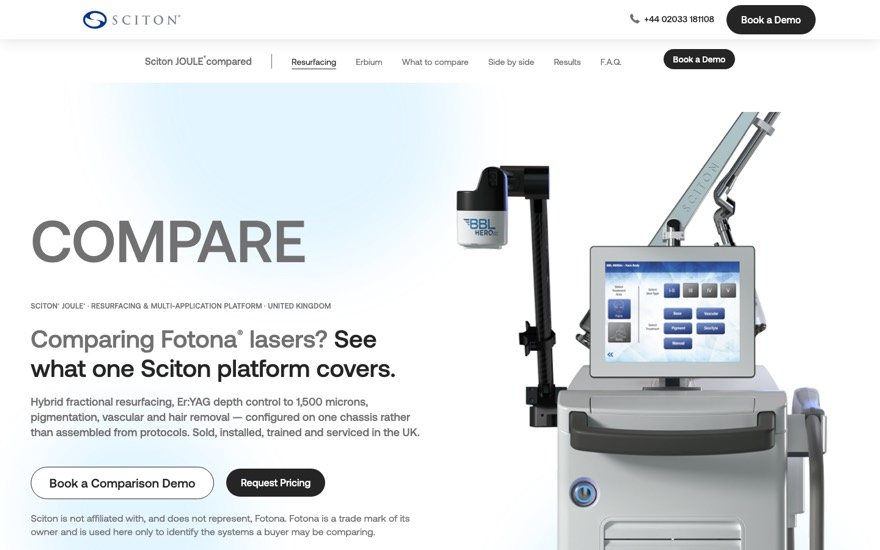
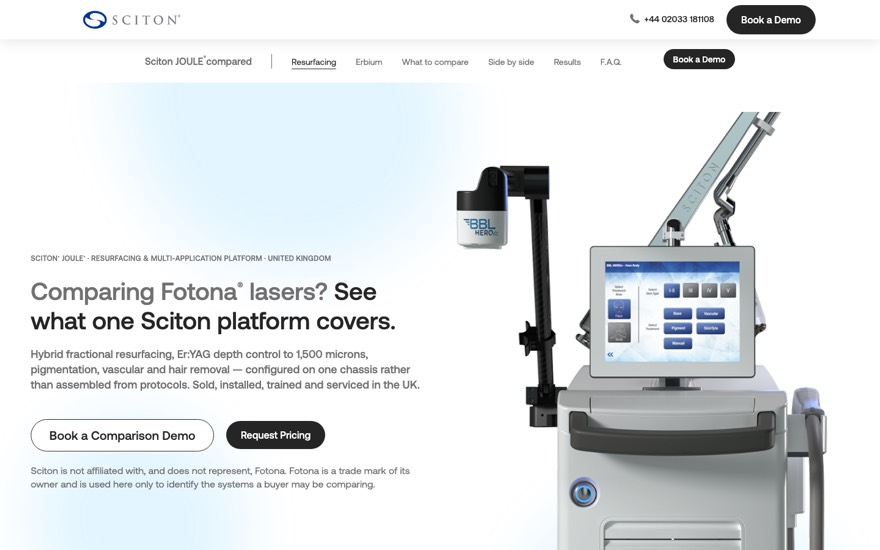
Fold JOULE/OMNI into hero H1s, simplify compare table and card copy
- Remove the decorative giant hero word on all six pages; JOULE and OMNI
  are now folded into their page's H1 instead
- Relabel the compare-table competitor column "The competitor" on the
  three competitor pages
- Drop the three-bullet list from each card on the front listing page
- Regenerate the six card preview screenshots to match
- Fix stale paths in .claude/shots.py so it points at the site's
  subfolder instead of 404ing

Changed region(s): [[0.0307, 0.4018, 0.4909, 0.9891]]

diff --git a/Sciton Landing Pages/index.html b/Sciton Landing Pages/index.html
@@ -67,11 +67,6 @@
           <p class="lp-card__code">C1 &middot; Sciton Brand</p>
           <h3 class="lp-card__name"><a href="c1-sciton-brand/index.html">The JOULE platform</a></h3>
           <p class="lp-card__desc">One platform, ten treatments. Modularity as the argument, for searches that already know the brand.</p>
-          <ul class="lp-card__list">
-            <li>Six module cards, Sciton iQ, ROI band</li>
-            <li>JOULE vs mJOULE comparison</li>
-            <li>Canonical: <code>/joule/</code></li>
-          </ul>
           <p class="lp-card__go">Open the page &rarr;</p>
         </div>
       </li>
@@ -82,11 +77,6 @@
           <p class="lp-card__code">C2 &middot; LHR Equipment Purchase</p>
           <h3 class="lp-card__name"><a href="c2-lhr-equipment/index.html">OMNI hair removal</a></h3>
           <p class="lp-card__desc">Throughput, all skin types and no consumable cost &mdash; the machine-purchase page for hair removal intent.</p>
-          <ul class="lp-card__list">
-            <li>5,000&nbsp;W, three wavelengths, &pound;0 consumables</li>
-            <li>OMNI vs BBL HERO<em>ic</em> comparison</li>
-            <li>Canonical: <code>/omni-laser-hair-removal-by-sciton/</code></li>
-          </ul>
           <p class="lp-card__go">Open the page &rarr;</p>
         </div>
       </li>
@@ -97,11 +87,6 @@
           <p class="lp-card__code">C3 &middot; Fractional &amp; Resurfacing</p>
           <h3 class="lp-card__name"><a href="c3-fractional-resurfacing/index.html">HALO &amp; ProFractional</a></h3>
           <p class="lp-card__desc">Hybrid resurfacing and Er:YAG depth control, with Sciton's own answer to the CO<sub>2</sub> search intent.</p>
-          <ul class="lp-card__list">
-            <li>Two wavelengths in one pass, 25&ndash;1,500&nbsp;&micro;m</li>
-            <li>Erbium vs CO<sub>2</sub>, four attributed before/afters</li>
-            <li>Canonical: <code>/halo-laser-by-sciton/</code></li>
-          </ul>
           <p class="lp-card__go">Open the page &rarr;</p>
         </div>
       </li>
@@ -112,11 +97,6 @@
           <p class="lp-card__code">C4 &middot; Competitor</p>
           <h3 class="lp-card__name"><a href="c4-competitor-cynosure/index.html">Compared: Cynosure</a></h3>
           <p class="lp-card__desc">Breadth as the argument &mdash; treatments per chassis, what the next indication costs, and where the consumables go.</p>
-          <ul class="lp-card__list">
-            <li>Six questions to ask any manufacturer</li>
-            <li>Side-by-side table: our specs, their questions</li>
-            <li>Text-only naming, non-affiliation line</li>
-          </ul>
           <p class="lp-card__go">Open the page &rarr;</p>
         </div>
       </li>
@@ -127,11 +107,6 @@
           <p class="lp-card__code">C5 &middot; Competitor</p>
           <h3 class="lp-card__name"><a href="c5-competitor-fotona/index.html">Compared: Fotona</a></h3>
           <p class="lp-card__desc">Resurfacing depth as the argument &mdash; compare the specifications, not the protocol names.</p>
-          <ul class="lp-card__list">
-            <li>Hybrid wavelengths and the absorption curve</li>
-            <li>Criteria written in microns, not modules</li>
-            <li>Text-only naming, non-affiliation line</li>
-          </ul>
           <p class="lp-card__go">Open the page &rarr;</p>
         </div>
       </li>
@@ -142,11 +117,6 @@
           <p class="lp-card__code">C6 &middot; Competitor</p>
           <h3 class="lp-card__name"><a href="c6-competitor-platforms/index.html">Compared: Lumenis, Cutera &amp; Candela</a></h3>
           <p class="lp-card__desc">Consolidation as the argument &mdash; broadband light and laser on one chassis, for clinics already running two or three systems.</p>
-          <ul class="lp-card__list">
-            <li>All three named once, then argued generically</li>
-            <li>Switching section written for multi-system clinics</li>
-            <li>Text-only naming, non-affiliation line</li>
-          </ul>
           <p class="lp-card__go">Open the page &rarr;</p>
         </div>
       </li>

diff --git a/Sciton Landing Pages/c5-competitor-fotona/index.html b/Sciton Landing Pages/c5-competitor-fotona/index.html
@@ -218,7 +218,6 @@
     <div class="items-center justify-center row">
       <div class="w-full mb-8 lg:mb-0 col lg:w-1/2">
         <div class="wysiwyg js-fade-group">
-          <p class="hdg-giant text-gray-300" aria-hidden="true">COMPARE</p>
           <p class="hdg-6 text-gray-300">Sciton<sup>&reg;</sup> JOULE<sup>&reg;</sup> &middot; Resurfacing &amp; multi-application platform &middot; United Kingdom</p>
           <h1 class="hdg-2 text-gray-300">Comparing Fotona<sup>&reg;</sup> lasers? <span class="text-brand-dark-gray">See what one Sciton platform covers.</span></h1>
           <p class="paragraph-large text-gray-300">Hybrid fractional resurfacing, Er:YAG depth control to 1,500&nbsp;microns, pigmentation, vascular and hair removal &mdash; configured on one chassis rather than assembled from protocols. Sold, installed, trained and serviced in the UK.</p>
@@ -417,7 +416,7 @@
                 <span class="lp-compare__name">Sciton JOULE<sup>&reg;</sup></span>
               </th>
               <th scope="col">
-                <span class="lp-compare__name lp-compare__name--ask">What to verify on the system you are comparing</span>
+                <span class="lp-compare__name lp-compare__name--ask">The competitor</span>
               </th>
             </tr>
           </thead>

diff --git a/Sciton Landing Pages/c6-competitor-platforms/index.html b/Sciton Landing Pages/c6-competitor-platforms/index.html
@@ -220,7 +220,6 @@
     <div class="items-center justify-center row">
       <div class="w-full mb-8 lg:mb-0 col lg:w-1/2">
         <div class="wysiwyg js-fade-group">
-          <p class="hdg-giant text-gray-300" aria-hidden="true">COMPARE</p>
           <p class="hdg-6 text-gray-300">Sciton<sup>&reg;</sup> JOULE<sup>&reg;</sup> &middot; Multi-application laser &amp; light platform &middot; United Kingdom</p>
           <h1 class="hdg-2 text-gray-300">Comparing Lumenis<sup>&reg;</sup>, Cutera<sup>&reg;</sup> or Candela<sup>&reg;</sup>? <span class="text-brand-dark-gray">See what one Sciton platform covers.</span></h1>
           <p class="paragraph-large text-gray-300">Broadband light and laser on the same chassis, up to eleven modules, and a treatment menu that grows without a second machine in the room. Sold, installed, trained and serviced in the UK.</p>
@@ -388,7 +387,7 @@
                 <span class="lp-compare__name">Sciton JOULE<sup>&reg;</sup></span>
               </th>
               <th scope="col">
-                <span class="lp-compare__name lp-compare__name--ask">What to verify on the system you are comparing</span>
+                <span class="lp-compare__name lp-compare__name--ask">The competitor</span>
               </th>
             </tr>
           </thead>

diff --git a/Sciton Landing Pages/c4-competitor-cynosure/index.html b/Sciton Landing Pages/c4-competitor-cynosure/index.html
@@ -218,7 +218,6 @@
     <div class="items-center justify-center row">
       <div class="w-full mb-8 lg:mb-0 col lg:w-1/2">
         <div class="wysiwyg js-fade-group">
-          <p class="hdg-giant text-gray-300" aria-hidden="true">COMPARE</p>
           <p class="hdg-6 text-gray-300">Sciton<sup>&reg;</sup> JOULE<sup>&reg;</sup> &middot; Platform comparison for UK clinics</p>
           <h1 class="hdg-2 text-gray-300">Comparing Cynosure<sup>&reg;</sup> lasers? <span class="text-brand-dark-gray">Here is how Sciton JOULE compares.</span></h1>
           <p class="paragraph-large text-gray-300">One chassis, up to eleven modules, and a treatment menu that covers resurfacing, pigmentation, vascular, hair removal and skin tightening. Sold, installed, trained and serviced in the UK.</p>
@@ -366,7 +365,7 @@
                 <span class="lp-compare__name">Sciton JOULE<sup>&reg;</sup></span>
               </th>
               <th scope="col">
-                <span class="lp-compare__name lp-compare__name--ask">What to verify on the system you are comparing</span>
+                <span class="lp-compare__name lp-compare__name--ask">The competitor</span>
               </th>
             </tr>
           </thead>

diff --git a/Sciton Landing Pages/c1-sciton-brand/index.html b/Sciton Landing Pages/c1-sciton-brand/index.html
@@ -214,9 +214,8 @@
     <div class="items-center justify-center row">
       <div class="w-full mb-8 lg:mb-0 col lg:w-1/2">
         <div class="wysiwyg js-fade-group">
-          <p class="hdg-giant text-gray-300" aria-hidden="true">JOULE<sup>&reg;</sup></p>
           <p class="hdg-6 text-gray-300">Sciton<sup>&reg;</sup> Aesthetic Device Platform &middot; United Kingdom</p>
-          <h1 class="hdg-2 text-gray-300">One platform. <span class="text-brand-dark-gray">Ten treatments.</span> One investment that grows with your clinic.</h1>
+          <h1 class="hdg-2 text-gray-300">One JOULE<sup>&reg;</sup> platform. <span class="text-brand-dark-gray">Ten treatments.</span> One investment that grows with your clinic.</h1>
           <p class="paragraph-large text-gray-300">HALO<sup>&reg;</sup>, BBL<sup>&reg;</sup> HERO<em>ic</em>&trade;, ProFractional<sup>&reg;</sup> and ClearSilk<sup>&reg;</sup> on a single chassis. Hand built in Palo Alto. Sold, installed and supported in the UK.</p>
           <p class="lp-hero-ctas">
             <a class="btn-action" href="#demo" id="cta-hero" data-cta="hero-demo">Book a Demo</a>

diff --git a/Sciton Landing Pages/c2-lhr-equipment/index.html b/Sciton Landing Pages/c2-lhr-equipment/index.html
@@ -217,9 +217,8 @@
     <div class="items-center justify-center row">
       <div class="w-full mb-8 lg:mb-0 col lg:w-1/2">
         <div class="wysiwyg js-fade-group">
-          <p class="hdg-giant text-gray-300" aria-hidden="true">OMNI</p>
           <p class="hdg-6 text-gray-300">Sciton<sup>&reg;</sup> Diode Laser Hair Removal Platform &middot; United Kingdom</p>
-          <h1 class="hdg-2 text-gray-300">All skin types. All treatment areas. <span class="text-brand-dark-gray">One machine your clinic can run all day.</span></h1>
+          <h1 class="hdg-2 text-gray-300">All skin types. All treatment areas. <span class="text-brand-dark-gray">One OMNI your clinic can run all day.</span></h1>
           <p class="paragraph-large text-gray-300">OMNI combines 760&nbsp;nm, an 810/940&nbsp;nm blend and 1060&nbsp;nm on one diode platform, with 5,000&nbsp;W of output and no consumable costs. Sold, installed and supported in the UK.</p>
           <p class="lp-hero-ctas">
             <a class="btn-action" href="#demo" id="cta-hero" data-cta="hero-demo">Book a Demo</a>

diff --git a/Sciton Landing Pages/c3-fractional-resurfacing/index.html b/Sciton Landing Pages/c3-fractional-resurfacing/index.html
@@ -214,7 +214,6 @@
     <div class="items-center justify-center row">
       <div class="w-full mb-8 lg:mb-0 col lg:w-1/2">
         <div class="wysiwyg js-fade-group">
-          <p class="hdg-giant text-gray-300" aria-hidden="true">RESURFACING</p>
           <p class="hdg-6 text-gray-300">Sciton<sup>&reg;</sup> HALO<sup>&reg;</sup> &amp; ProFractional<sup>&reg;</sup> &middot; Fractional Skin Resurfacing &middot; United Kingdom</p>
           <h1 class="hdg-2 text-gray-300">Two resurfacing lasers, one platform. <span class="text-brand-dark-gray">Ablative and non-ablative, on your terms.</span></h1>
           <p class="paragraph-large text-gray-300">HALO delivers a 2940&nbsp;nm ablative and a 1470&nbsp;nm non-ablative wavelength in the same pass. ProFractional takes Er:YAG from 25 to 1,500&nbsp;microns for the deepest concerns. Both run on JOULE, and both are sold, installed and supported in the UK.</p>

diff --git a/Sciton Landing Pages/assets/css/lp.css b/Sciton Landing Pages/assets/css/lp.css
@@ -559,14 +559,6 @@
   body { padding-bottom: 80px; }
 }
 
-/* C3 only: the hero's decorative giant word is 11 characters. "JOULE" and
-   "OMNI" fit the theme's 64px mobile size; "RESURFACING" does not and would
-   clip mid-word against the hero's overflow:hidden. Scoped to the page so
-   C1 and C2 keep the theme size. */
-@media (max-width: 767px) {
-  .page-halo-lp .hdg-giant { font-size: 3rem; }
-}
-
 @media (max-width: 639px) {
   .lp-hero-ctas { flex-direction: column; align-items: stretch; }
   .lp-hero-ctas .btn-action,

diff --git a/Sciton Landing Pages/README.md b/Sciton Landing Pages/README.md
@@ -506,13 +506,9 @@ hard-coded, so both pages run off one script. C1 carries
 
 ### What C3 adds to `lp.css`
 
-Three rules, all scoped to the `.page-halo-lp` body class so C1 and C2 are
+Two rules, both scoped to the `.page-halo-lp` body class so C1 and C2 are
 untouched:
 
-* **`.page-halo-lp .hdg-giant`** (section 15) — the hero's decorative giant
-  word is eleven characters (`RESURFACING`). `JOULE` and `OMNI` fit the theme's
-  64px mobile size; this one overran the viewport and clipped mid-word against
-  the hero's `overflow: hidden`, so it steps down to 3rem below 768px.
 * **`.page-halo-lp .hero-banner-new`** (section 19) — the theme's hero carries
   no vertical padding. On C1 and C2 the tall portrait product render sets the
   band height and the shorter copy column sits inside it with room to spare;
